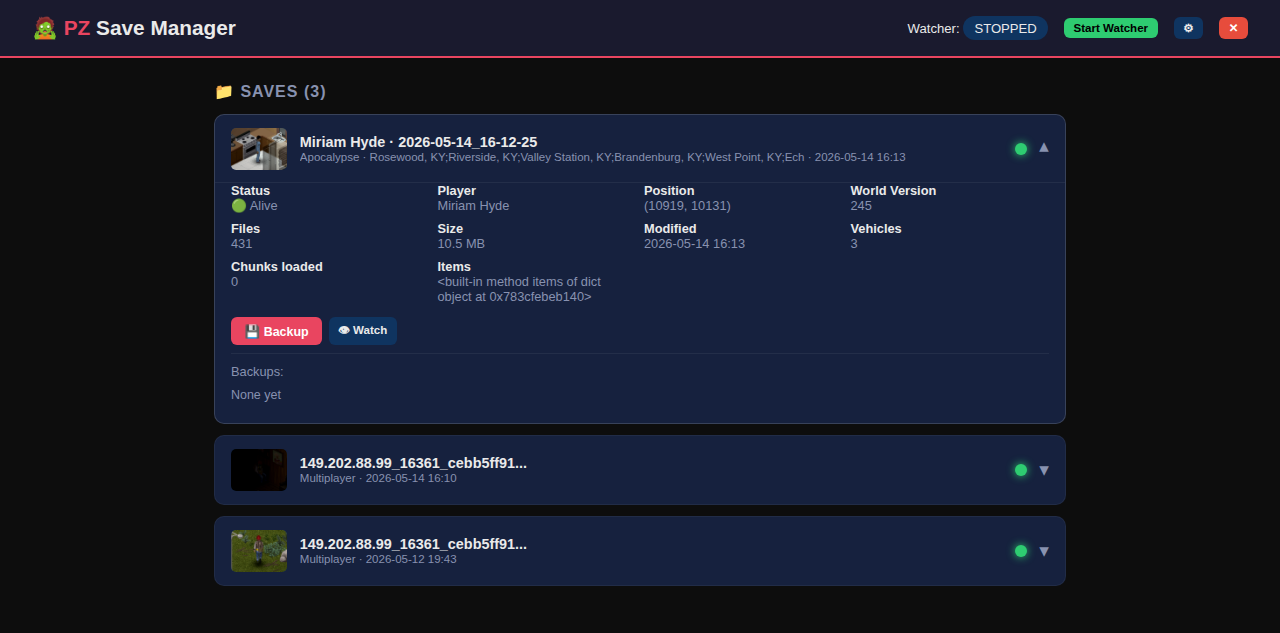
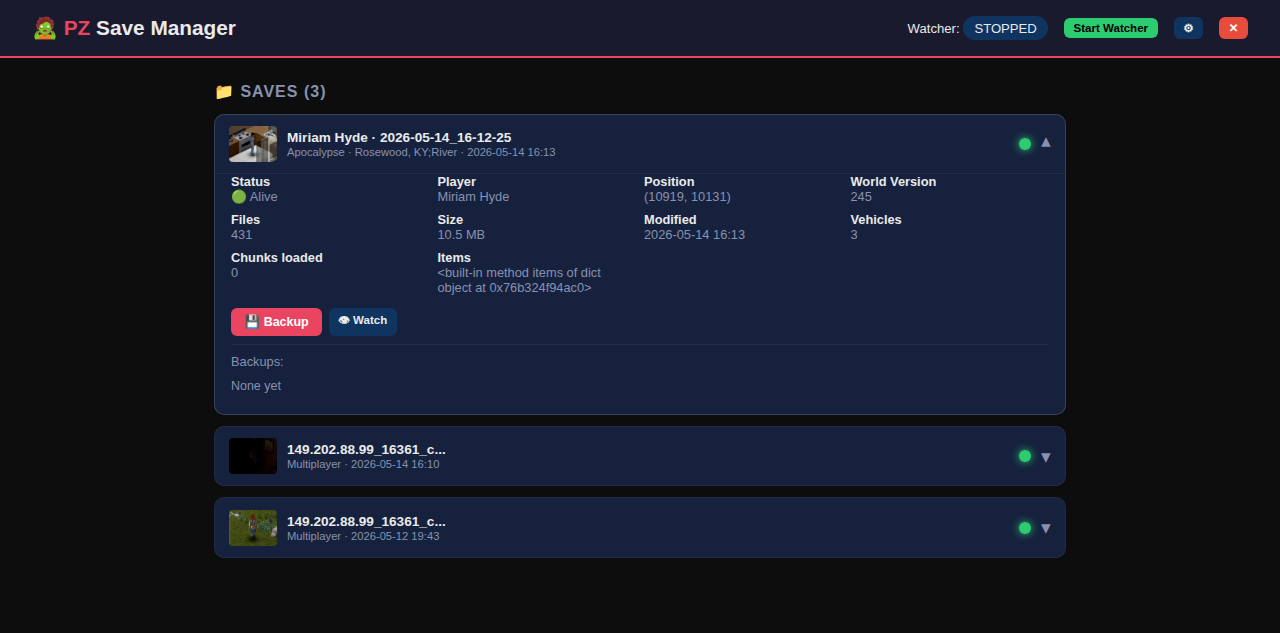
fix: aggressive text truncation — flex:1 1 0, max-width, shorter names

Changed region(s): [[0.1562, 0.4803, 0.8438, 0.9305], [0.1562, 0.1801, 0.75, 0.4803], [0.7812, 0.2101, 0.8438, 0.2401]]

diff --git a/src/pz_save_manager/gui.py b/src/pz_save_manager/gui.py
@@ -35,11 +35,11 @@ h2{font-size:1rem;margin-bottom:.8rem;color:var(--muted);text-transform:uppercas
 /* Compact card */
 .card{background:var(--card);border-radius:var(--radius);border:1px solid rgba(255,255,255,.05);margin-bottom:.7rem;overflow:hidden;transition:border .15s}
 .card:hover{border-color:rgba(255,255,255,.15)}
-.card-header{display:flex;align-items:center;padding:.8rem 1rem;cursor:pointer;gap:.8rem;user-select:none}
-.card-header .thumb{width:56px;height:42px;border-radius:5px;object-fit:cover;flex-shrink:0;background:var(--accent2)}
-.card-header .info{flex:1;min-width:0;overflow:hidden}
-.card-header .info .name{font-weight:600;font-size:.9rem;white-space:nowrap;overflow:hidden;text-overflow:ellipsis}
-.card-header .info .sub{font-size:.72rem;color:var(--muted);margin-top:1px;white-space:nowrap;overflow:hidden;text-overflow:ellipsis}
+.card-header{display:flex;align-items:center;padding:.7rem .9rem;cursor:pointer;gap:.6rem;user-select:none;overflow:hidden}
+.card-header .thumb{width:48px;height:36px;border-radius:4px;object-fit:cover;flex-shrink:0;background:var(--accent2)}
+.card-header .info{flex:1 1 0;min-width:0;overflow:hidden}
+.card-header .info .name{font-weight:600;font-size:.85rem;white-space:nowrap;overflow:hidden;text-overflow:ellipsis;max-width:100%;display:block}
+.card-header .info .sub{font-size:.7rem;color:var(--muted);margin-top:1px;white-space:nowrap;overflow:hidden;text-overflow:ellipsis;max-width:100%;display:block}
 .card-header .status-dot{width:12px;height:12px;border-radius:50%;flex-shrink:0}
 .status-alive{background:var(--green);box-shadow:0 0 8px var(--green)}
 .status-dead{background:var(--dead)}
@@ -84,7 +84,7 @@ h2{font-size:1rem;margin-bottom:.8rem;color:var(--muted);text-transform:uppercas
 {% if save.has_thumbnail %}<img src="/thumb/{{save.game_mode}}/{{save.full_name}}" class="thumb" loading="lazy">{% else %}<div class="thumb"></div>{% endif %}
 <div class="info">
 <div class="name" title="{{save.full_name}}">{% if save.player %}{{save.player}} · {% endif %}{{save.name}}</div>
-<div class="sub">{{save.game_mode}}{% if save.map_name %} · {{save.map_name}}{% endif %} · {{save.modified}}</div>
+<div class="sub">{{save.game_mode}}{% if save.map_name %} · {{save.map_name[:18]}}{% endif %} · {{save.modified}}</div>
 </div>
 <div class="status-dot {% if save.player_dead is none %}status-unknown{% elif save.player_dead %}status-dead{% else %}status-alive{% endif %}" title="{% if save.player_dead is none %}Unknown{% elif save.player_dead %}Dead{% else %}Alive{% endif %}"></div>
 <span class="arrow">▾</span>
@@ -158,7 +158,7 @@ function shutdown(){if(confirm('Close PZ Save Manager?')){api('POST','/api/shutd
 def _save_info(save: SaveGame, manager: WatcherManager) -> dict:
     path = save.path
     # Truncate display name for compact view
-    short_name = save.name if len(save.name) <= 32 else save.name[:29] + "..."
+    short_name = save.name if len(save.name) <= 24 else save.name[:21] + "..."
     try:
         file_count = sum(1 for _ in path.rglob("*") if _.is_file())
         total_size = sum(_.stat().st_size for _ in path.rglob("*") if _.is_file())
